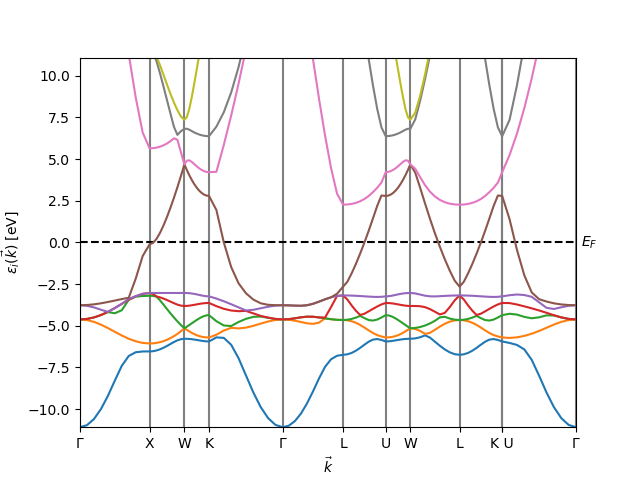
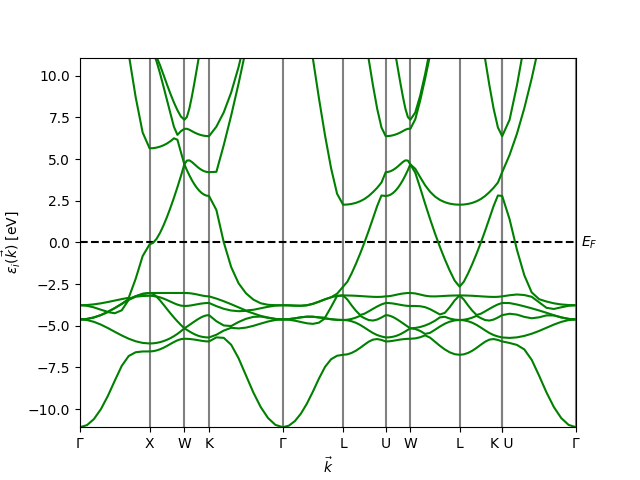
Added shell to plot equation of state

diff --git a/plot_eos.py b/plot_eos.py
@@ -19,6 +19,7 @@ number_of_atoms = 1
 chemical_formula = 'Cu'
 exchange_correlation = 'PZ'
 filename = chemical_formula + '.' + structure_name + '.' + exchange_correlation + '.volume_total_energy.dat'
+atomic_filename = chemical_formula + '.atom.' + exchange_correlation + '.dat'
 
 # Parameters
 number_of_fit_volumes = 50
@@ -32,6 +33,10 @@ with open(filename) as eos_file:
         simulation_volumes.append(float(line.split()[0]))
         simulation_total_energies.append(float(line.split()[1]))
 
+with open(atomic_filename) as atomic_file:
+    for line_index, line in enumerate(atomic_file.readlines()):
+        atomic_energy = float(line.split()[0])
+
 # Convert lists to NumPy arrays
 simulation_volumes = np.asarray(simulation_volumes)
 simulation_total_energies = np.asarray(simulation_total_energies)
@@ -39,6 +44,7 @@ simulation_total_energies = np.asarray(simulation_total_energies)
 # Convert units
 simulation_volumes = simulation_volumes * cubic_bohr_to_cubic_meter
 simulation_total_energies = simulation_total_energies * rydberg_to_joule
+atomic_energy *= rydberg_to_joule
 
 # Convert to units per atom
 simulation_volumes, simulation_total_energies = simulation_volumes/number_of_atoms, \
@@ -48,6 +54,8 @@ print("Simulation volumes (m^3/atom):")
 print(simulation_volumes)
 print("Simulation total energies (J/atom):")
 print(simulation_total_energies)
+print("Atomic total energy (J/atom):")
+print(atomic_energy)
 
 # from Cohen et al. (2000) Accuracy of equation-of-state formulations
 #
@@ -74,11 +82,13 @@ elif fit_function == 'vinet':
     from equations_of_state import vinet
     parameters = fit_eos(simulation_volumes, simulation_total_energies, vinet)
     print("Vinet equation of state parameters found:")
-    print("\tEquilibrium energy      (J/atom)   = {}".format(parameters[0]))
-    print("\tBulk modulus            (Pa)       = {}".format(parameters[1]))
-    print("\tBulk modulus derivative            = {}".format(parameters[2]))
-    print("\tEquilibrium volume      (m^3/atom) = {}".format(parameters[3]))
+    print("\tEquilibrium energy      (J/atom)   = {:.3e}".format(parameters[0]))
+    print("\tBulk modulus            (Pa)       = {:.3e}".format(parameters[1]))
+    print("\tBulk modulus derivative            = {:.3e}".format(parameters[2]))
+    print("\tEquilibrium volume      (m^3/atom) = {:.3e}".format(parameters[3]))
     fit_total_energies = vinet(parameters, fit_volumes)
+    cohesive_energy = -1*(parameters[0] - atomic_energy) * joule_to_electron_volt
+    print("\tCohesive energy         (eV/atom)  = {:.3f}".format(cohesive_energy))
 
 # Make plot
 # plt.title(r'Energy Equation of State for ' + structure_name + ' ' + chemical_formula)

diff --git a/parse_bands_PBESOL_100_sample.py b/parse_bands_PBESOL_100_sample.py
@@ -104,5 +104,5 @@ plt.text(kpoint_plotvalues[-1] + whitespace_shift, 0.0, r'$E_F$', verticalalignm
 
 # Make the bands plot
 for band_index in range(0, number_of_bands-1):
-    plt.plot(kpoint_plotvalues, bands[band_index]) # WARNING: ASSUMING BANDS ARE ORDERED BY ENERGY, SHOULD USE .RAP FILE
+    plt.plot(kpoint_plotvalues, bands[band_index], color='green') # WARNING: ASSUMING BANDS ARE ORDERED BY ENERGY, SHOULD USE .RAP FILE
 plt.savefig('Cu.Fm-3m.PBESOL.bands_100_sample.png')

diff --git a/parse_bands_PBE_100.py b/parse_bands_PBE_100.py
@@ -104,5 +104,5 @@ plt.text(kpoint_plotvalues[-1] + whitespace_shift, 0.0, r'$E_F$', verticalalignm
 
 # Make the bands plot
 for band_index in range(0, number_of_bands-1):
-    plt.plot(kpoint_plotvalues, bands[band_index]) # WARNING: ASSUMING BANDS ARE ORDERED BY ENERGY, SHOULD USE .RAP FILE
+    plt.plot(kpoint_plotvalues, bands[band_index], color='green') # WARNING: ASSUMING BANDS ARE ORDERED BY ENERGY, SHOULD USE .RAP FILE
 plt.savefig('Cu.Fm-3m.PBE.bands_100_sample.png')
